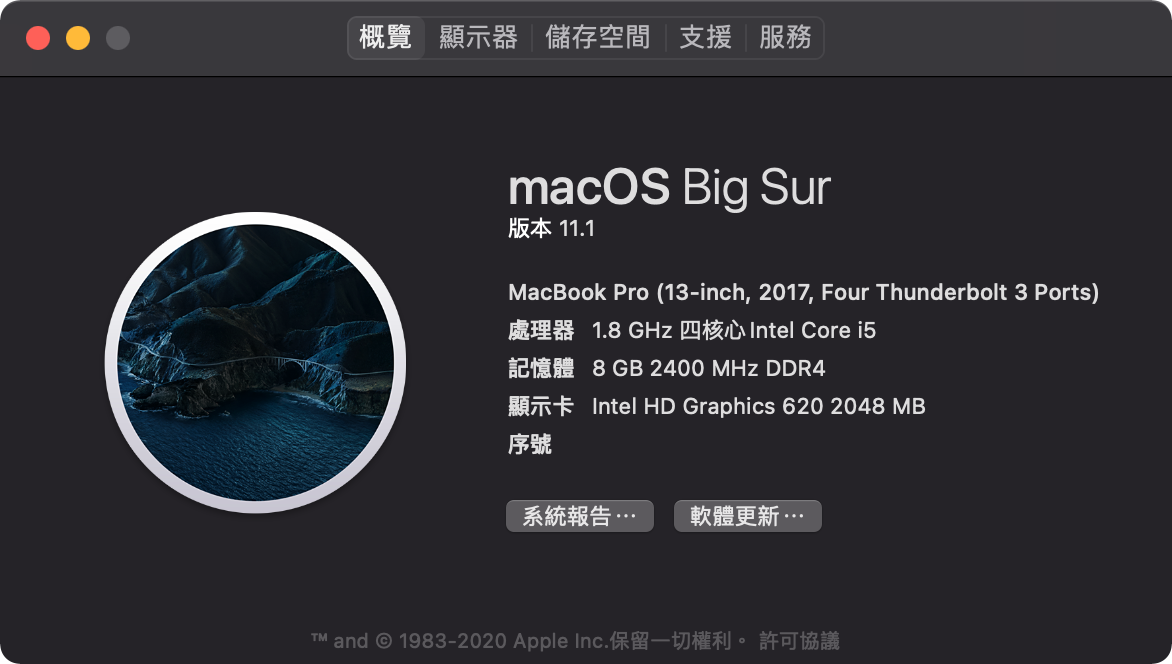
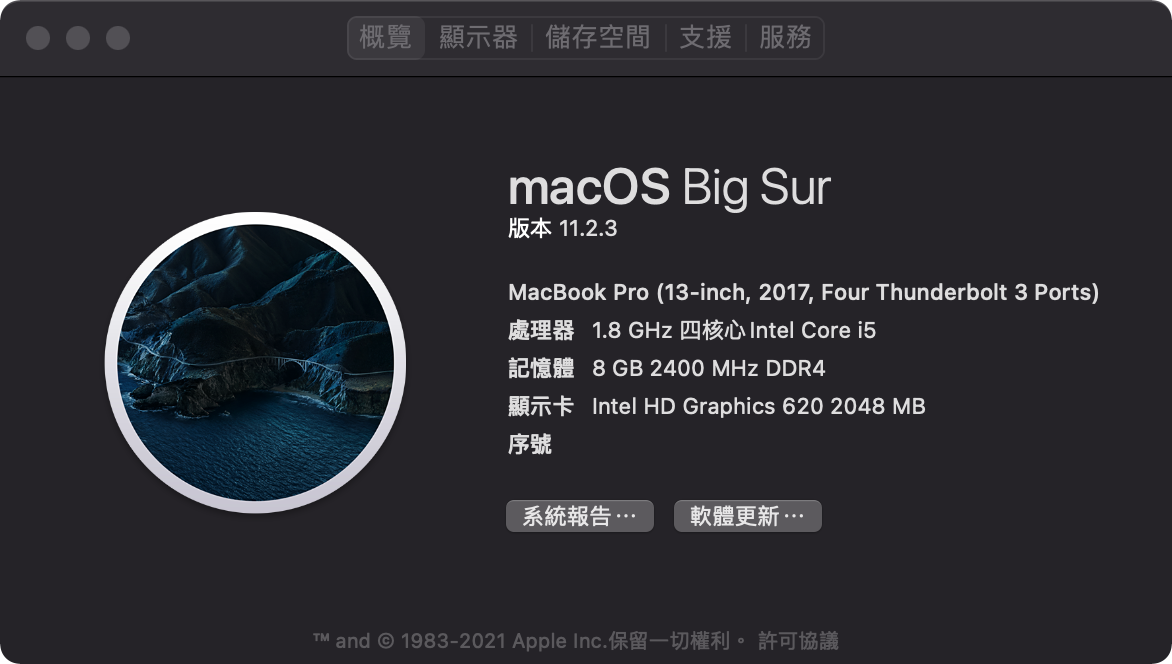
update os.png and README.md

diff --git a/README.md b/README.md
@@ -8,7 +8,7 @@
 基本上就是利用空閒時間進行，主要目的是學習 Hackintosh 的原理跟相關的知識。  
 有任何的問題或建議都可以發 Issue 或者 pull request。
 ### 詳細資訊
-+ 系統版本 ： macOS Big Sur 11.1
++ 系統版本 ： macOS Big Sur 11.2.3
 + OpenCore版本 : 0.6.8
 + 產品名稱 ： 13z980-A.AAS5U1
 + BIOS 版本： K22C0254 X64
